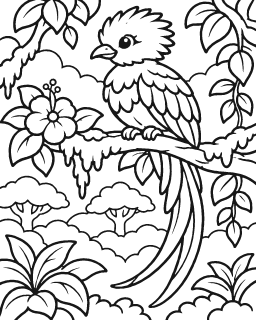
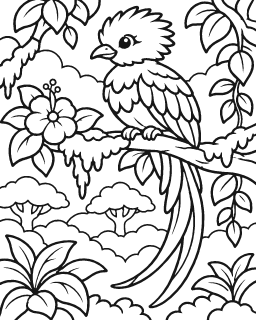
fix: colocar el musgo sobre la rama en M06

diff --git a/tool/laminas/convertir.py b/tool/laminas/convertir.py
@@ -71,7 +71,8 @@ def pagina_de(art_id, tema_id):
     else:
         pagina = f'{art_id.lower()}-{tema_id}'
         revision = 2 if art_id in {'E03', 'E04', 'E05', 'E06', 'E07', 'E09', 'E10', 'E12'} else 1
-    return pagina, revision + (art_id in AJUSTES_LOTE)
+    ajustes = AJUSTES_LOTE.get(art_id)
+    return pagina, revision if ajustes is None else ajustes.get('revision', revision + 1)
 
 
 def leer_gris(ruta):
@@ -353,6 +354,20 @@ def procesar(art_id, tema_id, fuente, original):
         agrupadas_a_mano += len(partes) - 1
         cambios.append(nota)
 
+    protegidos = []
+    for x, y in ajustes.get('rellenos_protegidos', ()):
+        region = g.raiz(int(zonas[y, x]))
+        if region not in g.vec or pequeno(region):
+            raise ValueError(f'{art_id}: relleno protegido inválido')
+        protegidos.append(region)
+
+    def separar_protegidos():
+        for region in protegidos:
+            for otra in protegidos:
+                g.vec[region].pop(otra, None)
+
+    separar_protegidos()
+
     detalles_finos = set()
     for x, y in ajustes.get('detalles_finos', ()):
         detalle = g.raiz(int(zonas[y, x]))
@@ -370,6 +385,7 @@ def procesar(art_id, tema_id, fuente, original):
             break
         a = min(chicos, key=lambda k: g.area[k])
         g.unir(a, g.mejor_vecino(a))
+        separar_protegidos()
     por_minimo = n - len(g.area) - agrupadas_a_mano
     while len(g.area) - len(brillos) > nivel['tope']:
         candidatos = [k for k in g.area if g.vec.get(k)]
@@ -377,6 +393,7 @@ def procesar(art_id, tema_id, fuente, original):
             break
         a = min(candidatos, key=lambda k: g.area[k])
         g.unir(a, g.mejor_vecino(a))
+        separar_protegidos()
     por_tope = n - por_minimo - agrupadas_a_mano - len(g.area)
     if por_minimo:
         cambios.append(
@@ -549,6 +566,9 @@ def procesar(art_id, tema_id, fuente, original):
         paleta[mapa[860, 1120]] = (233, 218, 191)  # nube derecha
         paleta[mapa[130, 102]] = (117, 151, 186)  # rama izquierda
         paleta[mapa[300, 126]] = (112, 169, 126)  # musgo colgante
+    if art_id == 'M06':
+        paleta[mapa[748, 443]] = (127, 181, 139)  # musgo sobre la rama
+        paleta[mapa[845, 1242]] = (178, 136, 109)  # madera visible
     previa = paleta[lienzo]
     previa[tinta_vec == 1] = (20, 20, 20)
     previa = cv2.resize(previa, (round(ancho * 0.5), round(alto * 0.5)),

diff --git a/docs/laminas/REGISTRO_CAMBIOS.md b/docs/laminas/REGISTRO_CAMBIOS.md
@@ -185,15 +185,12 @@ Todas las láminas se normalizan a 1600 px de lado mayor y se vectorizan; debajo
 - anteras reunidas con el pistilo
 - 1 zonas pequeñas agrupadas con su vecina
 
-## M06 · `quetzal` (revisión 3)
+## M06 · `quetzal` (revisión 4)
 
-- Original: `Imagen de ChatGPT 12 nov 2026, 23_04_18-10.webp` → `M06_quetzal.webp` (1122 × 1402 px), SHA-256 `c3a357b39530aa16…`
-- Lienzo: 1280 × 1600 (vertical); trazo 11.6 px; tinta que toca el marco: 10.2 %
-- 1 motas de tinta eliminadas
-- huecos de trazo cerrados (548 px)
-- 1 brillos sobre tinta conservados como regiones propias
-- plumas largas de la cola separadas del fondo
-- 59 zonas pequeñas agrupadas con su vecina
+- Fuente corregida: `tool/laminas/fuentes_corregidas/M06.png`, SHA-256 `8c685f96bd583b65…`.
+- Se continuó el borde de las ramas sobre el musgo y se restauraron los trazos marcados en los árboles pequeños, las hojas inferiores y el borde derecho.
+- El musgo cubre la parte superior y el frente de la rama y cae por el borde. Su relleno incluye el remate superior. Los huecos entre las ramas pequeñas se pintan con el fondo.
+- Las revisiones 1, 2 y 3 se conservan para los dibujos guardados.
 
 ## M07 · `m07-perezoso` (revisión 2)
 
